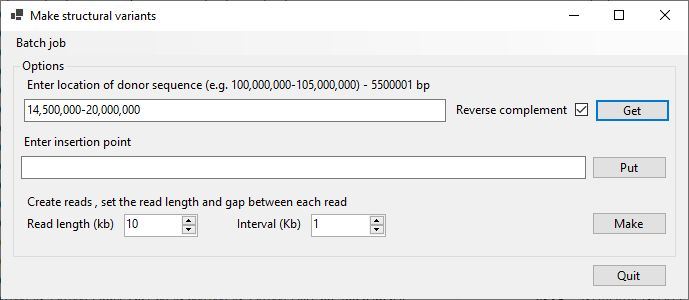
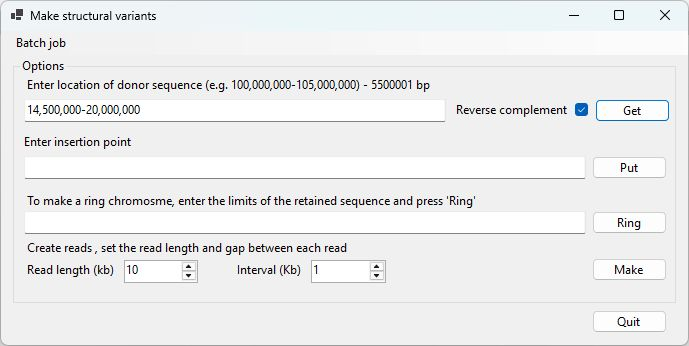
User guide and ring chromosome function

diff --git a/MakeSVGenome/Form1.Designer.cs b/MakeSVGenome/Form1.Designer.cs
@@ -29,6 +29,9 @@
         private void InitializeComponent()
         {
             groupBox1 = new GroupBox();
+            btnRing = new Button();
+            txtRing = new TextBox();
+            label1 = new Label();
             label5 = new Label();
             label4 = new Label();
             btnMakeRead = new Button();
@@ -54,6 +57,9 @@
             // groupBox1
             // 
             groupBox1.Anchor = AnchorStyles.Top | AnchorStyles.Bottom | AnchorStyles.Left | AnchorStyles.Right;
+            groupBox1.Controls.Add(btnRing);
+            groupBox1.Controls.Add(txtRing);
+            groupBox1.Controls.Add(label1);
             groupBox1.Controls.Add(label5);
             groupBox1.Controls.Add(label4);
             groupBox1.Controls.Add(btnMakeRead);
@@ -69,16 +75,44 @@
             groupBox1.Controls.Add(btnGet);
             groupBox1.Location = new Point(12, 27);
             groupBox1.Name = "groupBox1";
-            groupBox1.Size = new Size(663, 200);
+            groupBox1.Size = new Size(663, 246);
             groupBox1.TabIndex = 0;
             groupBox1.TabStop = false;
             groupBox1.Text = "Options";
+            // 
+            // btnRing
+            // 
+            btnRing.Anchor = AnchorStyles.Top | AnchorStyles.Right;
+            btnRing.Location = new Point(579, 153);
+            btnRing.Name = "btnRing";
+            btnRing.Size = new Size(75, 23);
+            btnRing.TabIndex = 15;
+            btnRing.Text = "Ring";
+            btnRing.UseVisualStyleBackColor = true;
+            btnRing.Click += btnRing_Click;
+            // 
+            // txtRing
+            // 
+            txtRing.Anchor = AnchorStyles.Top | AnchorStyles.Left | AnchorStyles.Right;
+            txtRing.Location = new Point(11, 153);
+            txtRing.Name = "txtRing";
+            txtRing.Size = new Size(562, 23);
+            txtRing.TabIndex = 14;
+            // 
+            // label1
+            // 
+            label1.AutoSize = true;
+            label1.Location = new Point(11, 135);
+            label1.Name = "label1";
+            label1.Size = new Size(456, 15);
+            label1.TabIndex = 13;
+            label1.Text = "To make a ring chromosme, enter the limits of the retained sequence and press 'Ring'";
             // 
             // label5
             // 
             label5.Anchor = AnchorStyles.Top;
             label5.AutoSize = true;
-            label5.Location = new Point(221, 158);
+            label5.Location = new Point(221, 204);
             label5.Name = "label5";
             label5.Size = new Size(71, 15);
             label5.TabIndex = 12;
@@ -88,7 +122,7 @@
             // 
             label4.Anchor = AnchorStyles.Top;
             label4.AutoSize = true;
-            label4.Location = new Point(11, 158);
+            label4.Location = new Point(11, 204);
             label4.Name = "label4";
             label4.Size = new Size(94, 15);
             label4.TabIndex = 11;
@@ -97,7 +131,7 @@
             // btnMakeRead
             // 
             btnMakeRead.Anchor = AnchorStyles.Top | AnchorStyles.Right;
-            btnMakeRead.Location = new Point(579, 154);
+            btnMakeRead.Location = new Point(579, 200);
             btnMakeRead.Name = "btnMakeRead";
             btnMakeRead.Size = new Size(75, 23);
             btnMakeRead.TabIndex = 10;
@@ -108,7 +142,7 @@
             // nudInterval
             // 
             nudInterval.Anchor = AnchorStyles.Top;
-            nudInterval.Location = new Point(298, 156);
+            nudInterval.Location = new Point(298, 202);
             nudInterval.Maximum = new decimal(new int[] { 5, 0, 0, 0 });
             nudInterval.Minimum = new decimal(new int[] { 1, 0, 0, 0 });
             nudInterval.Name = "nudInterval";
@@ -119,7 +153,7 @@
             // nudlength
             // 
             nudlength.Anchor = AnchorStyles.Top;
-            nudlength.Location = new Point(111, 156);
+            nudlength.Location = new Point(111, 202);
             nudlength.Maximum = new decimal(new int[] { 20, 0, 0, 0 });
             nudlength.Minimum = new decimal(new int[] { 1, 0, 0, 0 });
             nudlength.Name = "nudlength";
@@ -130,7 +164,7 @@
             // label3
             // 
             label3.AutoSize = true;
-            label3.Location = new Point(11, 136);
+            label3.Location = new Point(11, 182);
             label3.Name = "label3";
             label3.Size = new Size(327, 15);
             label3.TabIndex = 7;
@@ -151,9 +185,9 @@
             // txtInsertion
             // 
             txtInsertion.Anchor = AnchorStyles.Top | AnchorStyles.Left | AnchorStyles.Right;
-            txtInsertion.Location = new Point(8, 98);
+            txtInsertion.Location = new Point(11, 98);
             txtInsertion.Name = "txtInsertion";
-            txtInsertion.Size = new Size(565, 23);
+            txtInsertion.Size = new Size(562, 23);
             txtInsertion.TabIndex = 5;
             // 
             // label2
@@ -207,7 +241,7 @@
             // btnQuit
             // 
             btnQuit.Anchor = AnchorStyles.Bottom | AnchorStyles.Right;
-            btnQuit.Location = new Point(591, 233);
+            btnQuit.Location = new Point(591, 279);
             btnQuit.Name = "btnQuit";
             btnQuit.Size = new Size(75, 23);
             btnQuit.TabIndex = 1;
@@ -235,7 +269,7 @@
             // 
             AutoScaleDimensions = new SizeF(7F, 15F);
             AutoScaleMode = AutoScaleMode.Font;
-            ClientSize = new Size(687, 268);
+            ClientSize = new Size(687, 314);
             Controls.Add(btnQuit);
             Controls.Add(groupBox1);
             Controls.Add(menuStrip1);
@@ -272,5 +306,8 @@
         private Label label3;
         private MenuStrip menuStrip1;
         private ToolStripMenuItem batchJobToolStripMenuItem;
+        private Button btnRing;
+        private TextBox txtRing;
+        private Label label1;
     }
 }

diff --git a/MakeSVGenome/Form1.cs b/MakeSVGenome/Form1.cs
@@ -253,7 +253,7 @@ namespace MakeSVGenome
                             else if (counter == startPoint)
                             { sw.Write(insert.ToString()); }
 
-                        }                      
+                        }
                     }
 
                 }
@@ -328,16 +328,16 @@ namespace MakeSVGenome
                 {
                     string insert = "";
                     if (invert == false)
-                    { 
-                        insert = wholeSequence.Substring(index, length); 
-                        invert = true; 
+                    {
+                        insert = wholeSequence.Substring(index, length);
+                        invert = true;
                     }
                     else
                     {
                         int start = (wholeSequence.Length - (length + 1)) - index;
                         insert = ecneuqeSelohw.Substring(start, length);
                         invert = false;
-                    }                    
+                    }
 
                     byte[] data = Encoding.UTF8.GetBytes("@" + Readname() + "\n" + insert + "\n" + qualityString);
                     gzipStream.Write(data, 0, data.Length);
@@ -463,6 +463,39 @@ namespace MakeSVGenome
             { MessageBox.Show("Error: " + ex.Message); }
             finally
             { if (sf != null) { sf.Close(); } }
+        }
+
+        private void btnRing_Click(object sender, EventArgs e)
+        {
+            string[] items = txtRing.Text.Split('-');
+
+            string fileDonor = FileString.OpenAs("Select the base sequence file", "*.fa|*.fa;*.fasta");
+            if (System.IO.File.Exists(fileDonor) == false) { return; }
+
+            getInsert(fileDonor, items, chkRC.Checked, false);
+
+            int length = insert.Length;
+            int halfWay = length / 2;
+
+            string newFile = fileDonor.Substring(0, fileDonor.IndexOf('.')) + "_ring_" + txtRing.Text.Trim() + ".fa";
+
+            System.IO.StreamWriter sw = null;
+            try
+            { 
+            sw = new System.IO.StreamWriter(newFile);
+
+                sw.Write(">ring\n");
+                sw.Write(insert.ToString(halfWay, halfWay));
+                sw.Write(insert.ToString(0, halfWay - 1));
+                sw.Close();
+
+            
+            }
+            catch(Exception ex)
+            { MessageBox.Show(ex.Message,"Error creating file"); }
+            finally
+            { if (sw != null) { sw.Close(); } }
+
         }
     }
 }

diff --git a/Guide/README.md b/Guide/README.md
@@ -42,9 +42,21 @@ Figure 2a
 
 <hr />
 
-![Figure 2b1](images/figure2b.jpg)
+![Figure 2b](images/figure2b.jpg)
 
 Figure 2b
+
+<hr />
+
+## Making a ring chromosome
+
+Ring chromosomes loss their telomeres and fuse the naked chromosome end to forma ring. To emulate this, enter the breakpoint positions in the lower text area and press **Ring** and select the base reference file. In Figure 3, the breakpoints at at 10,000,000 bp and 149,000,000 bp so all sequence before 10,000,000 bp is lost along with sequence after 149,000,000 bp. After selecting the base reference file, you'll be asked to enter the output derivative reference file's name. The sequence will then be saved as two chunks, first the 2nd half of the reference sequence and then the first half. Tis results in a reference sequence in which it appears that the start and end points are one continuous sequence. However, the middle is now cut in half, but read data from the new reference will appear to be from a ring chromosome. 
+
+<hr />
+
+![Figure 3](images/figure4.jpg)
+
+Figure 3
 
 <hr />
 
@@ -71,6 +83,7 @@ Place the fasta file(s) containing the synthetic sequence in a folder that doesn
 If you create a translocation or insert data in from a different sequence you may wish create reads from the the source fasta file as well and combine reads from the modified chromosome as well as the insert source file. Combining the read files can be done on a Linux server using a command like:
 
 >zcat file1.fastq.gz file2.fastq.gz | gzip > file1and2.fastq.gz
+
 
 ## Aligning the reads to a reference file
 
